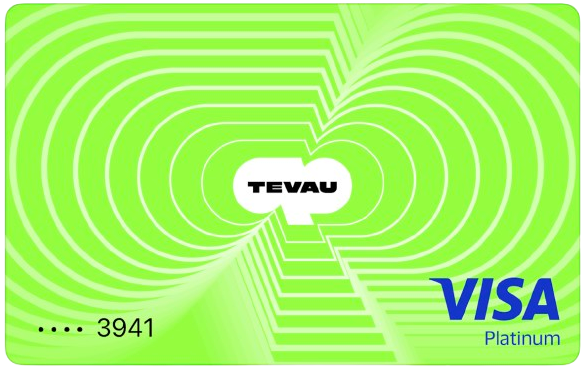
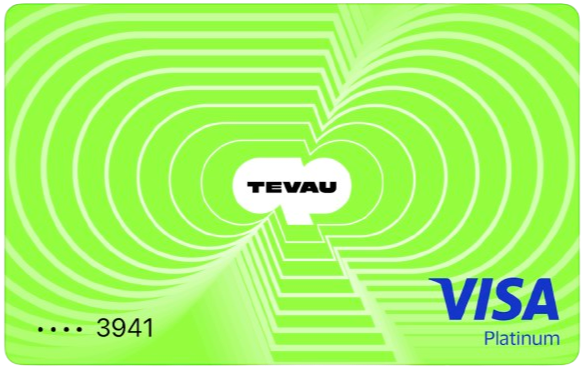
Improve card list artwork layout

diff --git a/components/cards/CardGrid.tsx b/components/cards/CardGrid.tsx
@@ -27,23 +27,24 @@ export default function CardGrid({ cards, columns = 3 }: CardGridProps) {
 
 export function CardGridItem({ card }: { card: Card }) {
   return (
-    <div className="group bg-white rounded-2xl border border-gray-200 hover:border-blue-200 hover:shadow-md transition-all duration-200 overflow-hidden">
+    <div className="group overflow-hidden rounded-2xl border border-gray-200 bg-white transition-all duration-200 hover:border-blue-200 hover:shadow-md">
       {/* Card header */}
       {card.cardImage ?? card.image ? (
-        <div className="relative p-3 pb-0">
+        <div className="relative border-b border-gray-100 bg-[#05070b]">
           <CardArtwork
             card={card}
-            className="rounded-[20px]"
-            imageClassName="block"
+            bleed
+            className="rounded-none border-0 shadow-none"
+            imageClassName="block h-full w-full"
             fallbackClassName="text-2xl"
-            paddingClassName="p-4 sm:p-5"
+            paddingClassName="p-0"
           />
-          <div className="absolute top-5 right-5 flex flex-col gap-1 items-end">
+          <div className="absolute right-3 top-3 flex flex-col items-end gap-1">
             {card.isSponsor && (
-              <span className="bg-black/40 text-white text-xs px-2 py-0.5 rounded-full backdrop-blur-sm">PR</span>
+              <span className="rounded-full bg-black/55 px-2 py-0.5 text-xs text-white backdrop-blur-sm">PR</span>
             )}
             {card.keyStrength && (
-              <span className="bg-black/40 text-white text-xs px-2 py-0.5 rounded-full backdrop-blur-sm border border-white/20">
+              <span className="rounded-full border border-white/15 bg-black/55 px-2 py-0.5 text-xs text-white backdrop-blur-sm">
                 {card.keyStrength}
               </span>
             )}
@@ -74,17 +75,17 @@ export function CardGridItem({ card }: { card: Card }) {
       )}
 
       {/* Card body */}
-      <div className="p-4 pt-3">
+      <div className="p-4">
         {/* Card name (shown when using image, gradient header already has it) */}
         {(card.cardImage ?? card.image) && (
-          <div className="flex items-center justify-between mb-3">
+          <div className="mb-3 flex items-center justify-between">
             <div>
-              <h3 className="font-bold text-slate-900 leading-tight">{card.name}</h3>
-              <p className="text-slate-400 text-xs">{card.network}</p>
+              <h3 className="leading-tight font-bold text-slate-900">{card.name}</h3>
+              <p className="text-xs text-slate-400">{card.network}</p>
             </div>
           </div>
         )}
-        <p className="text-xs text-gray-600 leading-relaxed mb-4 line-clamp-2">
+        <p className="mb-4 line-clamp-2 text-xs leading-relaxed text-gray-600">
           {card.shortDescription}
         </p>
 

diff --git a/components/cards/CardArtwork.tsx b/components/cards/CardArtwork.tsx
@@ -12,6 +12,7 @@ interface CardArtworkProps {
   fallbackClassName?: string;
   stageClassName?: string;
   paddingClassName?: string;
+  bleed?: boolean;
 }
 
 export default function CardArtwork({
@@ -22,6 +23,7 @@ export default function CardArtwork({
   fallbackClassName,
   stageClassName,
   paddingClassName,
+  bleed = false,
 }: CardArtworkProps) {
   const primarySrc = card.cardImage ?? card.image;
   const [src, setSrc] = useState(primarySrc);
@@ -33,25 +35,39 @@ export default function CardArtwork({
   return (
     <div
       className={cn(
-        "relative overflow-hidden rounded-[20px] border border-white/8 bg-[linear-gradient(180deg,#07111a_0%,#05080d_100%)] shadow-[0_10px_30px_rgba(2,8,20,0.12)]",
+        bleed
+          ? "relative overflow-hidden rounded-[20px] border border-black/10 bg-black shadow-[0_10px_24px_rgba(15,23,42,0.12)]"
+          : "relative overflow-hidden rounded-[20px] border border-white/8 bg-[linear-gradient(180deg,#07111a_0%,#05080d_100%)] shadow-[0_10px_30px_rgba(2,8,20,0.12)]",
         className,
       )}
       style={{ aspectRatio: "1200 / 756" }}
     >
+      {!bleed && (
+        <>
+          <div
+            className={cn(
+              "pointer-events-none absolute inset-x-[9%] top-[6%] h-[38%] rounded-full bg-white/10 blur-3xl",
+              stageClassName,
+            )}
+          />
+          <div className="absolute inset-0 bg-[radial-gradient(circle_at_top,rgba(255,255,255,0.08),transparent_38%)]" />
+        </>
+      )}
       <div
         className={cn(
-          "pointer-events-none absolute inset-x-[9%] top-[6%] h-[38%] rounded-full bg-white/10 blur-3xl",
-          stageClassName,
+          "relative flex h-full items-center justify-center",
+          bleed ? "p-0" : "p-5 sm:p-6",
+          paddingClassName,
         )}
-      />
-      <div className="absolute inset-0 bg-[radial-gradient(circle_at_top,rgba(255,255,255,0.08),transparent_38%)]" />
-      <div className={cn("relative flex h-full items-center justify-center p-5 sm:p-6", paddingClassName)}>
+      >
         {src ? (
           <img
             src={src}
             alt={alt ?? card.name}
             className={cn(
-              "max-h-full w-full rounded-[16px] object-contain drop-shadow-[0_18px_24px_rgba(0,0,0,0.18)]",
+              bleed
+                ? "h-full w-full object-cover"
+                : "max-h-full w-full rounded-[16px] object-contain drop-shadow-[0_18px_24px_rgba(0,0,0,0.18)]",
               imageClassName,
             )}
             onError={() => setSrc(undefined)}
